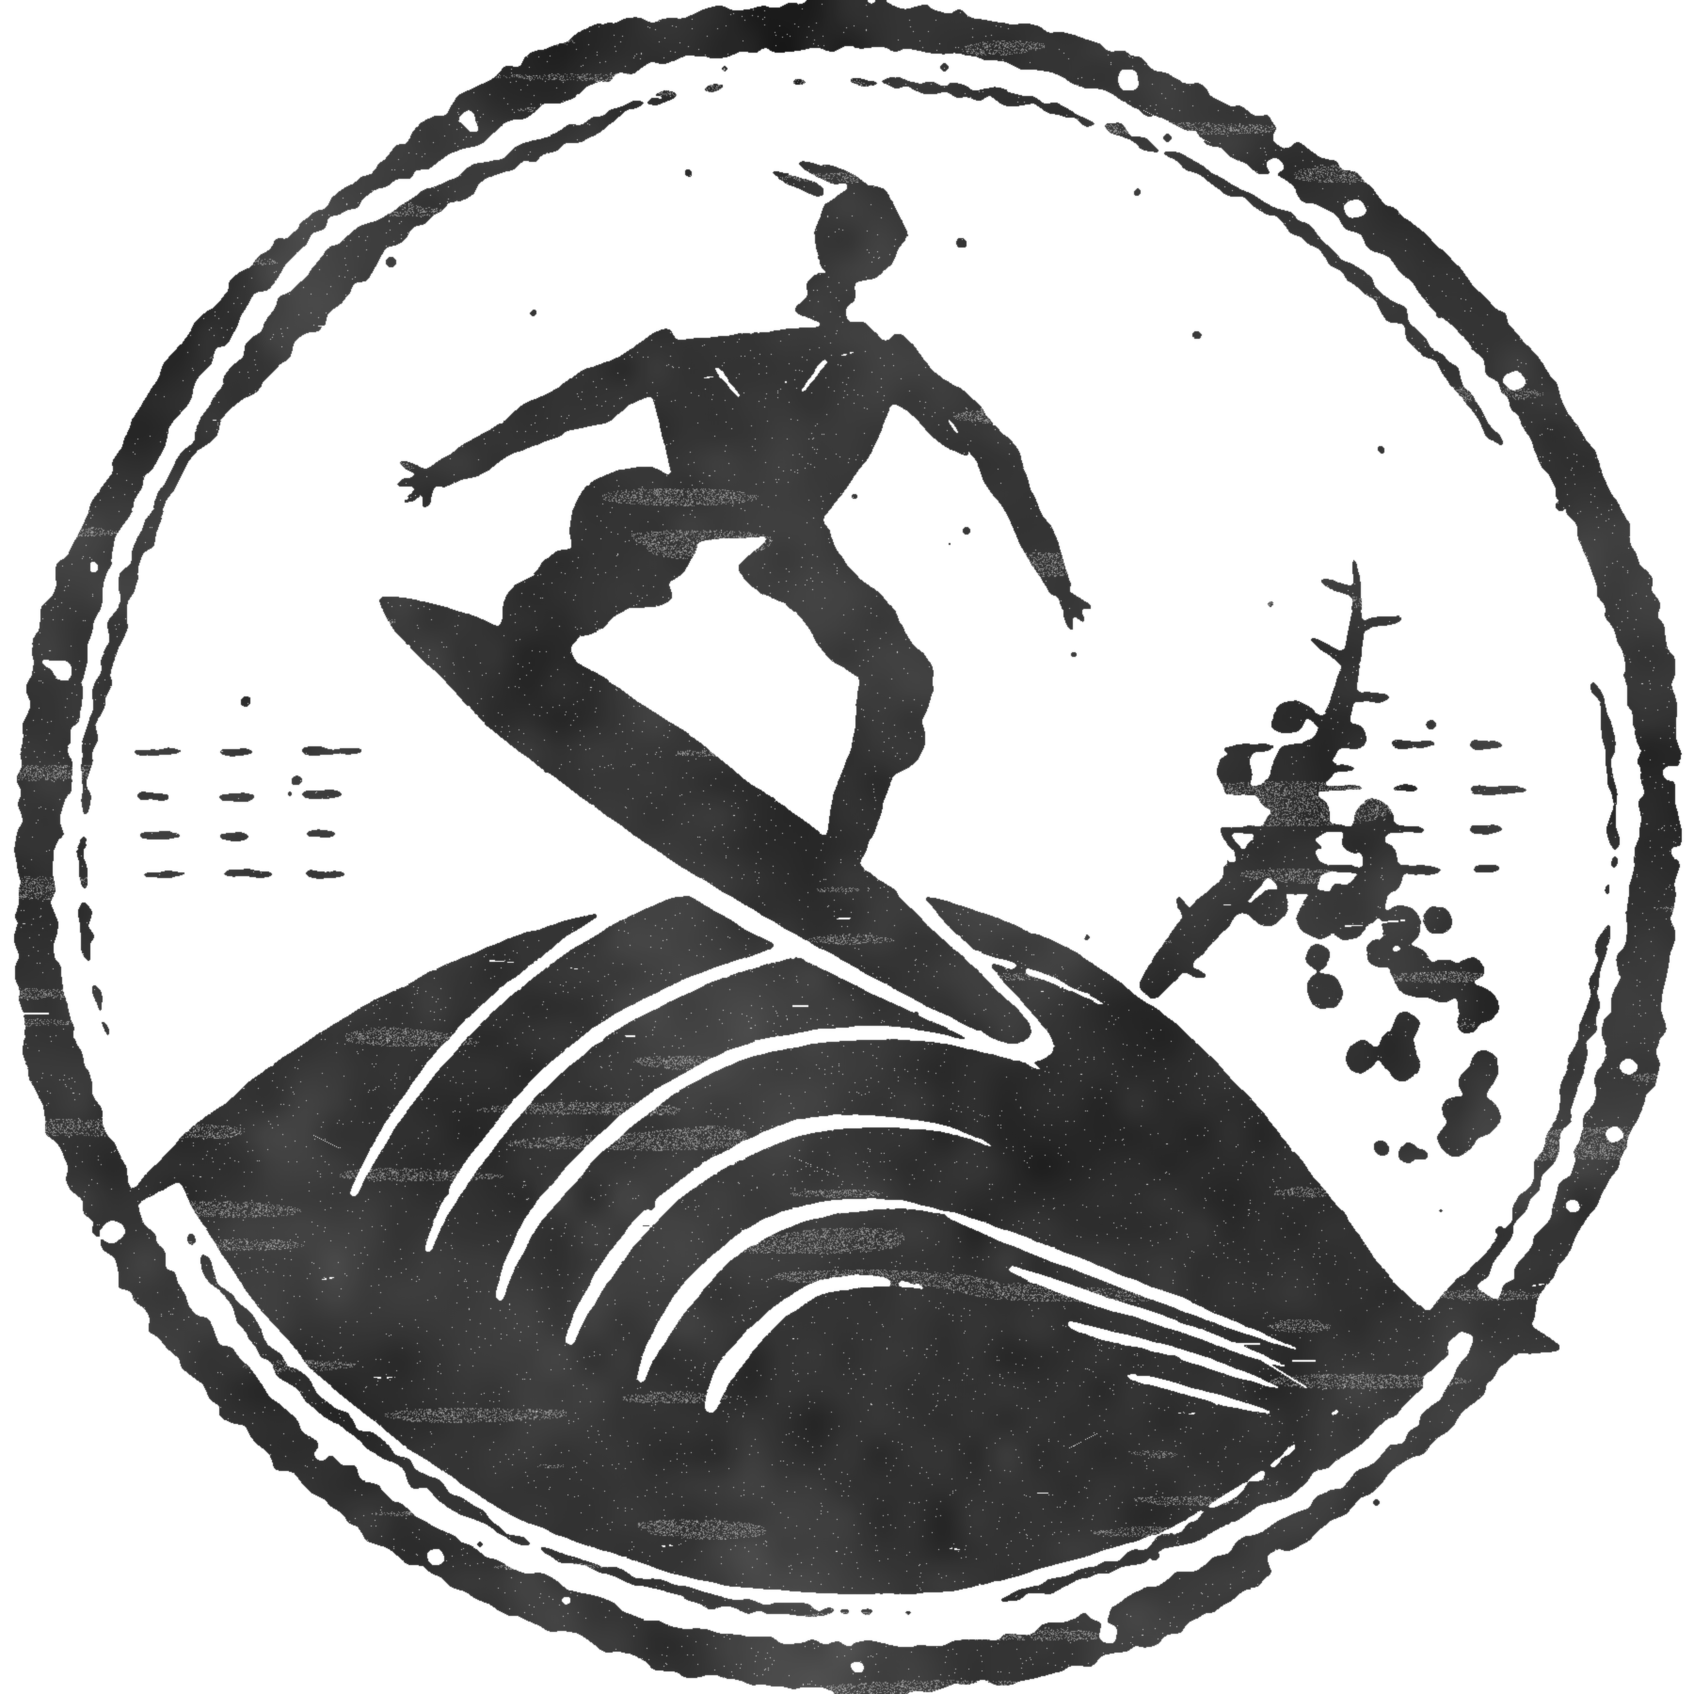
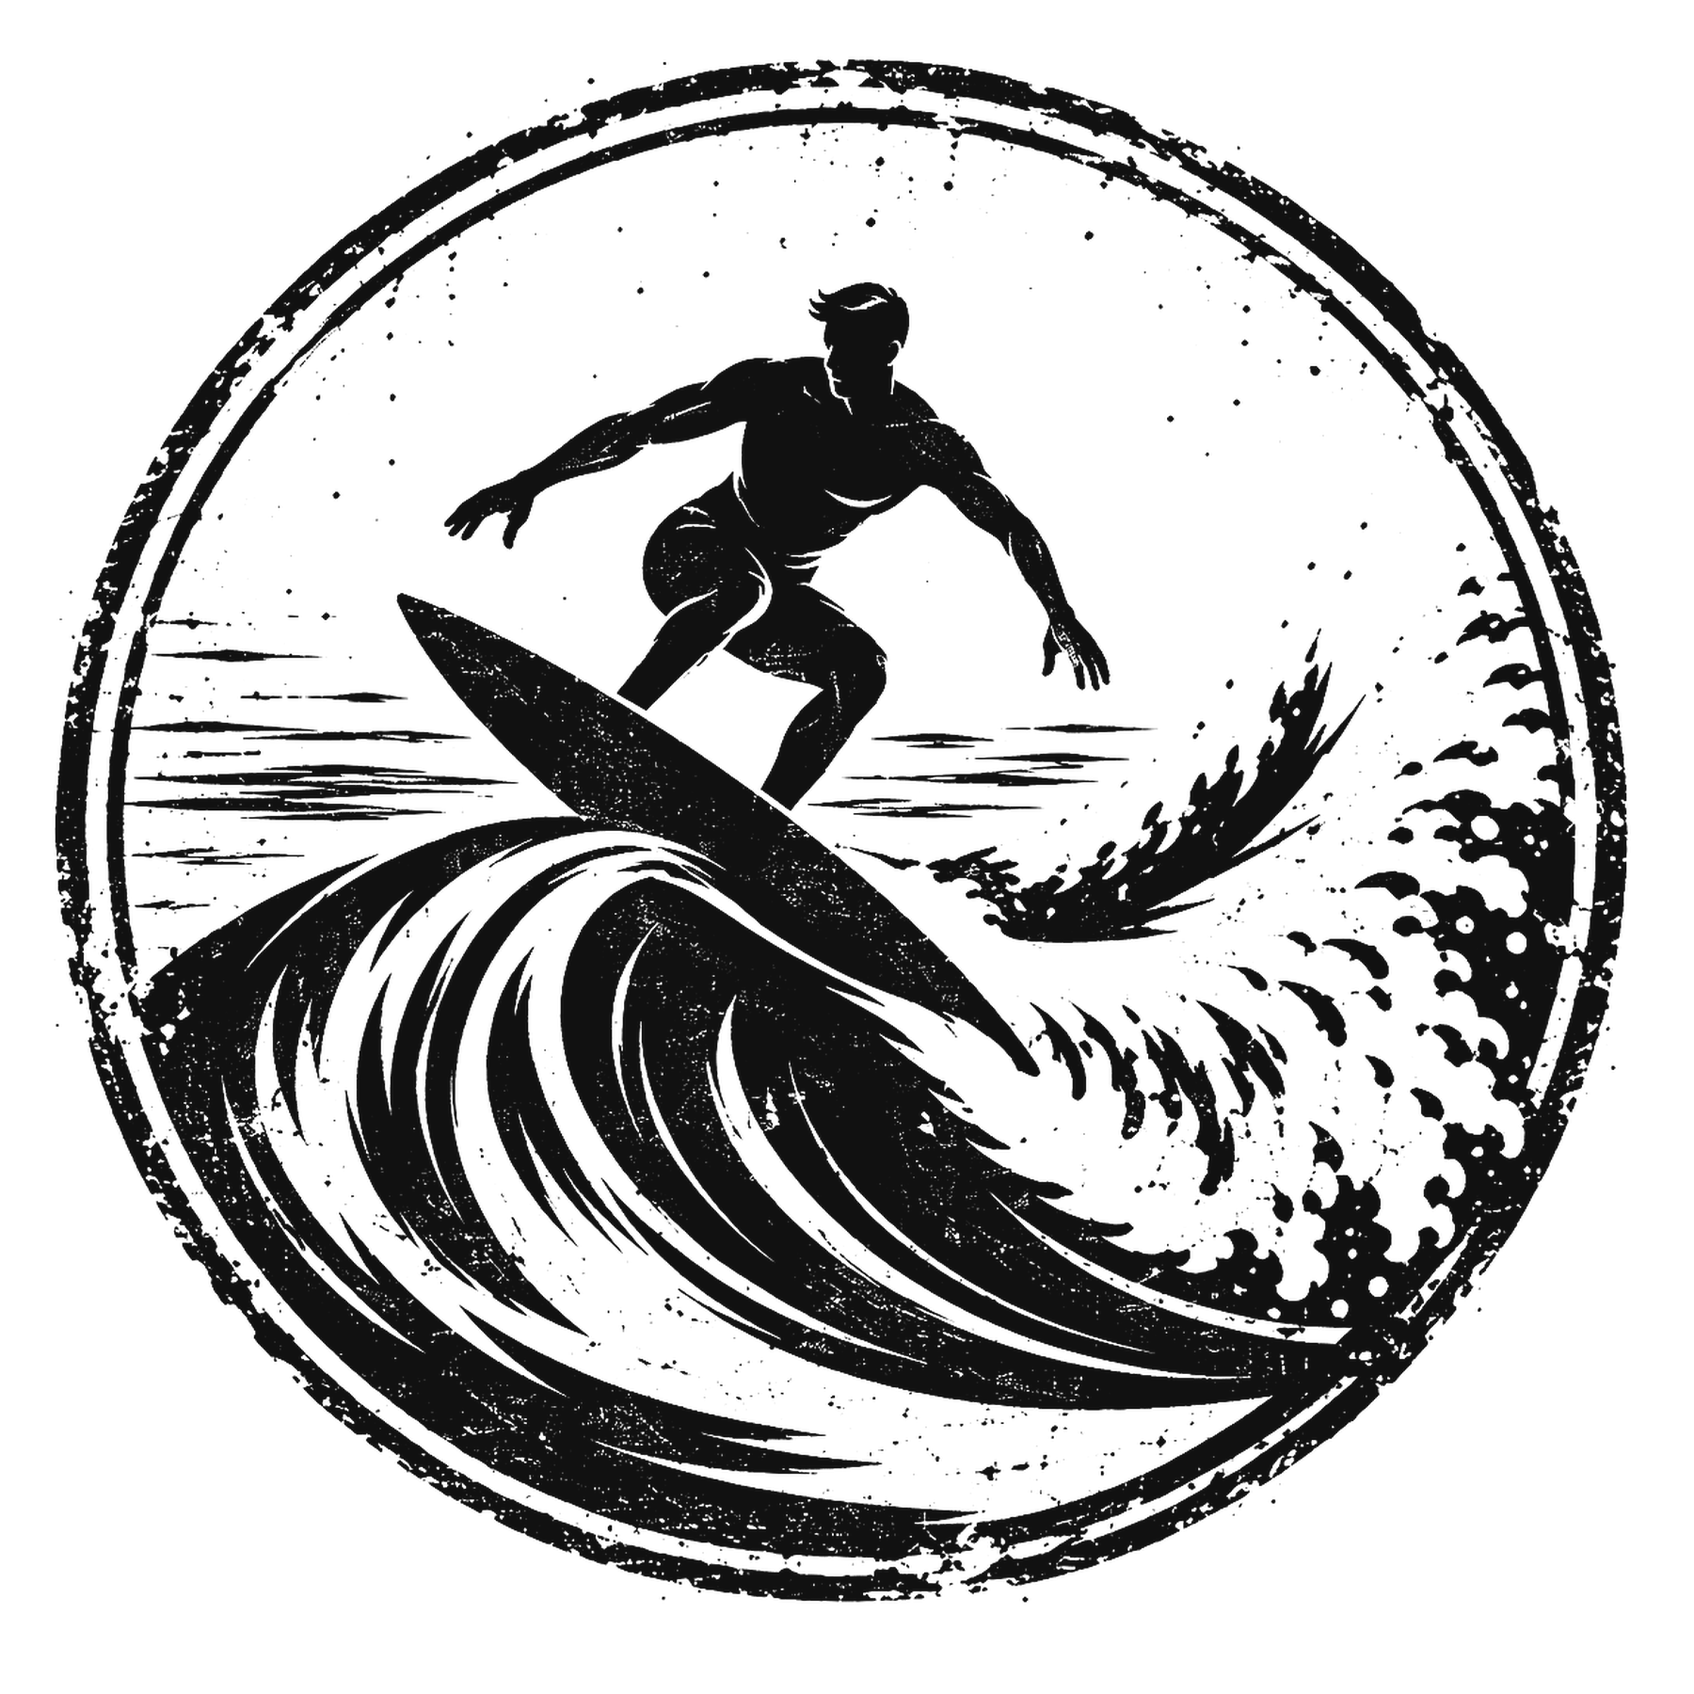
Sitio: surf del dibujo de Lucas y conferencias solo con entrada simbólica
- El emblema del surf (futuro capítulo) sale de diseño/referencias/surf.png
  pasado a la tinta de los grabados, y flota en el sitio.
- Ya no hay conferencia abierta y gratuita: todos los encuentros en vivo
  llevan entrada simbólica obligatoria.

Claude-Session: https://claude.ai/code/session_014ZXCqSPyLGg43e9ivReU3y

diff --git a/sitio/app/conferencias/page.tsx b/sitio/app/conferencias/page.tsx
@@ -8,32 +8,13 @@ import { conferencias, portadillas, precios } from "@/content/config";
 export const metadata: Metadata = { title: "Conferencias" };
 
 export default function Conferencias() {
-  const abiertas = conferencias.filter((c) => c.tipo === "abierta");
   const privadas = conferencias.filter((c) => c.tipo === "privada");
   return (
     <>
-      <Apertura titulo="Conferencias" bajada="Una abierta por año, gratis. Y privadas, con entrada simbólica." {...portadillas.conferencias} />
-      <section className="hondo border-t borde px-5 py-16 sm:py-20">
-        <div className="mx-auto max-w-3xl revelar">
-          <h2 className="titulo text-3xl mb-2">Abierta</h2>
-          <p className="texto-2 mb-8">Gratis. Solo hace falta inscribirse.</p>
-          {abiertas.map((c) => (
-            <article key={c.id} className="border-t border-b borde py-8">
-              <h3 className="text-2xl">{c.titulo}</h3>
-              <p className="texto-2 mt-1">
-                {c.fecha} · {c.lugar}
-              </p>
-              <p className="mt-4 prosa">{c.descripcion}</p>
-              <Link href={`/conferencias/${c.id}`} className="boton boton-lleno mt-6">
-                Inscribirme
-              </Link>
-            </article>
-          ))}
-        </div>
-      </section>
+      <Apertura titulo="Conferencias" bajada="En vivo, con entrada simbólica. El link para entrar aparece en tu espacio." {...portadillas.conferencias} />
       <section className="px-5 py-16 sm:py-20">
         <div className="mx-auto max-w-3xl revelar">
-          <h2 className="titulo text-3xl mb-2">Privadas</h2>
+          <h2 className="titulo text-3xl mb-2">Próximas</h2>
           <p className="texto-2 mb-8">
             Entrada simbólica de <Precio {...precios.conferenciaPrivada} />. Para comprarla necesitás una cuenta; el link
             para entrar aparece en tu espacio.

diff --git a/sitio/lib/acciones.ts b/sitio/lib/acciones.ts
@@ -11,7 +11,7 @@ import { leer, escribir } from "./db";
 import { producto, pagarSimulado, montoElegido } from "./payments";
 import { canjear } from "./codigos";
 import { ocupados } from "./sesiones";
-import { conferencias, modulos } from "@/content/config";
+import { modulos } from "@/content/config";
 
 export type Estado = { error?: string; ok?: string } | null;
 
@@ -38,21 +38,6 @@ export async function accionCrearCuenta(_: Estado, f: FormData): Promise<Estado>
 export async function accionSalir() {
   await cerrarSesion();
   redirect("/?sesion=cerrada");
-}
-
-export async function accionInscribir(_: Estado, f: FormData): Promise<Estado> {
-  const conferencia = txt(f, "conferencia");
-  const nombre = txt(f, "nombre");
-  const email = txt(f, "email").toLowerCase();
-  if (!conferencias.some((c) => c.id === conferencia && c.tipo === "abierta")) return { error: "Esa conferencia no existe." };
-  if (nombre.length < 2) return { error: "Escribí tu nombre." };
-  if (!mailValido(email)) return { error: "Revisá el mail." };
-  const lista = await leer<{ id: string; conferencia: string; nombre: string; email: string; fecha: string }[]>("inscripciones");
-  if (!lista.some((i) => i.conferencia === conferencia && i.email === email)) {
-    lista.push({ id: crypto.randomUUID(), conferencia, nombre, email, fecha: new Date().toISOString() });
-    await escribir("inscripciones", lista);
-  }
-  return { ok: `Listo, ${nombre}. Quedaste inscripto. Te vamos a escribir a ${email} con la fecha y el lugar.` };
 }
 
 export async function accionLista(_: Estado, f: FormData): Promise<Estado> {

diff --git a/sitio/app/conferencias/[id]/page.tsx b/sitio/app/conferencias/[id]/page.tsx
@@ -4,8 +4,6 @@ import type { Metadata } from "next";
 import Apertura from "@/components/Apertura";
 import Texto from "@/components/Marcador";
 import Precio from "@/components/Precio";
-import Formulario, { Campo } from "@/components/Formulario";
-import { accionInscribir } from "@/lib/acciones";
 import { usuarioActual } from "@/lib/auth";
 import { accesos } from "@/lib/access";
 import { conferencias, portadillas, precios } from "@/content/config";
@@ -23,25 +21,6 @@ export default async function Conferencia({ params }: P) {
   const c = conferencias.find((x) => x.id === id);
   if (!c) notFound();
   const u = await usuarioActual();
-
-  if (c.tipo === "abierta") {
-    return (
-      <>
-        <Apertura titulo={c.titulo} bajada={`${c.fecha} · ${c.lugar}`} folio={portadillas.conferencias.folio} />
-        <section className="hondo border-t borde px-5 py-16">
-          <div className="mx-auto max-w-xl revelar">
-            <p className="text-lg">{c.descripcion}</p>
-            <h2 className="titulo text-2xl mt-12 mb-6">Inscripción</h2>
-            <Formulario accion={accionInscribir} boton="Inscribirme" ocultarAlTerminar>
-              <input type="hidden" name="conferencia" value={c.id} />
-              <Campo nombre="nombre" etiqueta="Nombre" autoComplete="name" />
-              <Campo nombre="email" etiqueta="Mail" tipo="email" autoComplete="email" />
-            </Formulario>
-          </div>
-        </section>
-      </>
-    );
-  }
 
   const tiene = u ? (await accesos(u.id)).conferencias.includes(c.id) : false;
   return (

diff --git a/sitio/tests/publico.spec.ts b/sitio/tests/publico.spec.ts
@@ -5,7 +5,7 @@ const paginas = [
   "/",
   "/libros",
   "/conferencias",
-  "/conferencias/abierta-2026",
+  "/conferencias/privada-1",
   "/masterclass",
   "/en-vivo",
   "/masterclass/grabada",
@@ -48,12 +48,11 @@ test("los tres libros figuran como Próximamente y con marcador de texto", async
   await expect(page.locator("[data-marcador]").first()).toContainText("a definir)");
 });
 
-test("inscripción a la conferencia abierta", async ({ page }) => {
+test("las conferencias en vivo son todas con entrada simbólica", async ({ page }) => {
+  await page.goto("/conferencias");
+  await expect(page.locator("main")).not.toContainText(/gratis|abierta/i);
   await page.goto("/conferencias/abierta-2026");
-  await page.getByLabel("Nombre").fill("Sofía");
-  await page.getByLabel("Mail").fill("sofia@prueba.com");
-  await page.getByRole("button", { name: "Inscribirme" }).click();
-  await expect(page.getByTestId("mensaje-ok")).toContainText("Quedaste inscripto");
+  await expect(page.getByRole("heading", { name: "Esta página no existe" })).toBeVisible();
 });
 
 test("sumarse a la lista por WhatsApp o por mail", async ({ page }) => {

diff --git a/sitio/content/config.ts b/sitio/content/config.ts
@@ -107,7 +107,7 @@ export const libros: Libro[] = [
 
 export type Conferencia = {
   id: string;
-  tipo: "abierta" | "privada";
+  tipo: "privada"; // todas en vivo, con entrada simbólica obligatoria
   titulo: string;
   fecha: string; // texto libre: "a definir" o "Sábado 14 de marzo, 19 h"
   lugar: string;
@@ -118,17 +118,9 @@ export type Conferencia = {
 
 export const conferencias: Conferencia[] = [
   {
-    id: "abierta-2026",
-    tipo: "abierta",
-    titulo: "Conferencia abierta anual",
-    fecha: "Fecha a definir",
-    lugar: "Lugar a definir",
-    descripcion: "Una vez por año, abierta y gratuita. Solo hace falta inscribirse.",
-  },
-  {
     id: "privada-1",
     tipo: "privada",
-    titulo: "Conferencia privada I",
+    titulo: "Conferencia I",
     fecha: "Fecha a definir",
     lugar: "En línea",
     descripcion: MARCADOR,
@@ -137,7 +129,7 @@ export const conferencias: Conferencia[] = [
   {
     id: "privada-2",
     tipo: "privada",
-    titulo: "Conferencia privada II",
+    titulo: "Conferencia II",
     fecha: "Fecha a definir",
     lugar: "En línea",
     descripcion: MARCADOR,

diff --git a/sitio/app/page.tsx b/sitio/app/page.tsx
@@ -187,7 +187,7 @@ export default async function Inicio({ searchParams }: { searchParams: Promise<{
                   {c.titulo}
                 </Link>
                 <span className="texto-2 text-sm">
-                  {c.tipo === "abierta" ? "Gratis, con inscripción" : "Entrada simbólica"} · {c.fecha}
+                  Entrada simbólica · {c.fecha}
                 </span>
               </li>
             ))}

diff --git a/herramientas/emblemas_nuevos.py b/herramientas/emblemas_nuevos.py
@@ -1,7 +1,7 @@
 """
 Emblemas nuevos tallados con el mismo motor de grabado de la trilogía:
   - el clavo (flotan tres en el sitio: símbolo de Jesús) y los tres clavos juntos;
-  - el surf (tabla frente a la ola que se enrosca): para un futuro capítulo.
+  (el surf del futuro capítulo sale del dibujo de Lucas: herramientas/surf_desde_imagen.py).
 Salen en alta resolución a diseño/grabados/ y en chico, tinta crema, al sitio.
 Uso:  python3 herramientas/emblemas_nuevos.py
 """
@@ -59,107 +59,6 @@ def E_TRES_CLAVOS(ink, s):
         clavo(ink, T, s, base=(dx, -230 + abs(dx) * 0.25), ang=-ang, largo=0.9)  # las cabezas juntas, las puntas abiertas
 
 
-def E_SURF(ink, s):
-    """Sobre el dibujo de Lucas: surfista musculoso en una tabla corta, la ola en medialunas, espuma que se enrosca; doble anillo."""
-    T = TT(s)
-    cx, cy = T(0, 0)
-    rnd = ink.r
-    R = 330
-    # doble anillo gastado
-    ink.circle(cx, cy, (R + 12) * s)
-    ink.circle(cx, cy, (R - 6) * s, layer='white')
-    ink.circle(cx, cy, (R - 16) * s, layer='black2')
-    ink.circle(cx, cy, (R - 21) * s, layer='white')
-    r_in = R - 26
-    for _ in range(26):                                   # el anillo se come en algunos puntos
-        a = rnd.uniform(0, 2 * math.pi); rr = R + rnd.uniform(-4, 10)
-        ink.circle(*T(rr * math.cos(a), rr * math.sin(a)), rnd.uniform(2, 5) * s, layer='white')
-    def dentro(x, y, m=0):
-        return math.hypot(x, y) < r_in - m
-    # el horizonte a los dos lados, en rayas
-    for y in (-40, -22, -6, 10):
-        for x0 in range(-290, 300, 34):
-            x1 = x0 + rnd.uniform(14, 28)
-            if dentro(x0, y, 8) and dentro(x1, y, 8) and not (-200 < x0 < 120):
-                ink.stroke([T(x0, y), T(x1, y)], rnd.uniform(3, 6) * s, 2 * s)
-    # la ola: masa que barre desde la izquierda, sube bajo la tabla y se va hacia abajo a la derecha
-    borde = (ink.bez(T(-300, 150), T(-240, 70), T(-120, 10), T(0, 16))
-             + ink.bez(T(0, 16), T(90, 22), T(150, 80), T(200, 150))[1:]
-             + ink.bez(T(200, 150), T(230, 196), T(270, 214), T(292, 206))[1:])
-    a_der = math.atan2(206, 292); a_izq = math.atan2(150, -300)
-    arco = [T(r_in * math.cos(a_der + (a_izq - a_der) * i / 48), r_in * math.sin(a_der + (a_izq - a_der) * i / 48)) for i in range(49)]
-    ink.poly(borde + arco, 1.6)
-    # el tubo: medialunas blancas anidadas (franjas de la ola)
-    ox, oy = 10, 250
-    for k, rad in enumerate((70, 100, 132, 166, 200, 236)):
-        a0, a1 = math.radians(196 + k * 2), math.radians(292 + k * 3)
-        pts = [(ox + rad * math.cos(a0 + (a1 - a0) * i / 40), oy + rad * 1.05 * math.sin(a0 + (a1 - a0) * i / 40)) for i in range(41)]
-        pts = [p for p in pts if dentro(*p, 6)]
-        if len(pts) > 3:
-            ink.stroke([T(*p) for p in pts], (11 - k * 0.6) * s, 3 * s, layer='white', amp=0.4)
-    for k in range(4):                                    # franjas de la cola de la ola, hacia la derecha
-        pts = ink.bez(T(40 + k * 24, 150 + k * 22), T(120 + k * 20, 180 + k * 18), T(190 + k * 14, 214 + k * 10), T(270 - k * 6, 230 + k * 8))
-        ink.stroke([p for p in pts if dentro((p[0] - cx) / s, (p[1] - cy) / s, 8)], (8 - k) * s, 2 * s, layer='white', amp=0.3)
-    # la espuma: un penacho que sale del labio y se enrosca hacia arriba, y una cascada de gotas a la derecha
-    penacho = ink.bez(T(120, 60), T(170, 10), T(220, -60), T(206, -120))
-    ink.stroke(penacho, 22 * s, 4 * s)
-    for i in range(3, len(penacho) - 2, 3):               # plumas del penacho
-        (x0, y0), (x1, y1) = penacho[i - 1], penacho[i + 1]
-        dx, dy = x1 - x0, y1 - y0; l = math.hypot(dx, dy) or 1
-        nx, ny = -dy / l, dx / l
-        lado = 1 if (i // 3) % 2 else -1
-        largo = rnd.uniform(14, 26) * s
-        ink.stroke([penacho[i], (penacho[i][0] + nx * largo * lado + dx / l * 8 * s, penacho[i][1] + ny * largo * lado + dy / l * 8 * s)], 6 * s, 1.5 * s)
-    for _ in range(70):                                   # gotas que caen por la derecha
-        t = rnd.random()
-        x = 170 + 120 * t + rnd.uniform(-30, 30); y = -60 + 250 * t + rnd.uniform(-30, 30)
-        if dentro(x, y, 12):
-            ink.circle(*T(x, y), rnd.uniform(3, 10) * (1.2 - t * 0.5) * s)
-    # la tabla: corta, punta arriba a la izquierda, con borde blanco
-    p0, p1 = (-190, -104), (70, 74)
-    ang = math.atan2(p1[1] - p0[1], p1[0] - p0[0]); L = math.hypot(p1[0] - p0[0], p1[1] - p0[1])
-    def B(u, v):
-        return T(p0[0] + u * math.cos(ang) - v * math.sin(ang), p0[1] + u * math.sin(ang) + v * math.cos(ang))
-    def tabla(e):
-        return (ink.bez(B(-e, 0), B(40, -30 - e), B(L * 0.62, -30 - e), B(L + e, -4))
-                + ink.bez(B(L + e, -4), B(L + 6 + e, 0), B(L + 6 + e, 4), B(L + e, 8))[1:]
-                + ink.bez(B(L + e, 8), B(L * 0.62, 30 + e), B(40, 30 + e), B(-e, 0))[1:])
-    ink.poly(tabla(12), 1.0, 'white')
-    ink.poly(tabla(0), 1.0, 'black2')
-    # el surfista: musculoso, agachado, inclinado hacia la ola, un brazo atrás y el otro hacia adelante
-    def miembro(pts, anchos):
-        for (p, q), (w0, w1) in zip(zip(pts, pts[1:]), anchos):
-            ink.stroke([T(*p), T(*q)], w0 * s, w1 * s, layer='black2', taper=False, amp=0.5)
-        for (p, (w0, w1)) in zip(pts[1:-1], anchos[1:]):
-            ink.circle(*T(*p), w0 * 0.5 * s, layer='black2', amp=0.6)
-    ink.poly([T(-72, -206), T(8, -214), T(26, -196), T(10, -160), T(-12, -128), T(-66, -124), T(-72, -160), T(-80, -188)], 1.0, 'black2')  # torso
-    ink.circle(*T(-86, -130), 26 * s, layer='black2')                                                  # glúteo hacia atrás
-    ink.stroke([T(-10, -214), T(-4, -232)], 20 * s, 18 * s, layer='black2', taper=False)                # cuello
-    perfil = [(0, -20), (12, -17), (18, -6), (22, 1), (17, 6), (15, 12), (8, 18), (-3, 20), (-14, 14), (-17, 0), (-14, -12)]
-    ink.poly([T(4 + x, -250 + y) for x, y in perfil], 0.8, 'black2')                                    # cabeza de perfil
-    for dx, dy, l in ((-10, -266, 22), (-2, -270, 20), (6, -268, 16)):                                  # el mechón de pelo
-        ink.stroke([T(dx, dy), T(dx - l, dy - 10)], 7 * s, 2 * s, layer='black2')
-    miembro([(-66, -200), (-120, -176), (-168, -150)], [(24, 18), (17, 11)])                            # brazo de atrás
-    for ddx, ddy in ((-16, -8), (-18, 2), (-14, 10), (-6, 14)):                                         # mano abierta
-        ink.stroke([T(-168, -150), T(-168 + ddx, -150 + ddy)], 5 * s, 2 * s, layer='black2')
-    miembro([(12, -200), (60, -160), (88, -104)], [(24, 18), (17, 11)])                                 # brazo de adelante, hacia la ola
-    for ddx, ddy in ((4, 18), (10, 14), (14, 8)):
-        ink.stroke([T(88, -104), T(88 + ddx, -104 + ddy)], 5 * s, 2 * s, layer='black2')
-    miembro([(-80, -120), (-126, -96), (-118, -54)], [(38, 30), (28, 16)])                              # pierna de atrás (arriba en la tabla)
-    miembro([(-30, -126), (22, -70), (-4, 12)], [(36, 28), (27, 16)])                                   # pierna de adelante
-    for (x, y) in ((-122, -92), (18, -44)):
-        ink.circle(*T(x, y), 14 * s, layer='black2', amp=0.6)                                           # pantorrillas
-    for (p0_, p1_, w) in [((-54, -196), (-38, -176), 3), ((-6, -200), (-20, -182), 3), ((-100, -170), (-128, -164), 2.5), ((40, -176), (56, -150), 2.5)]:
-        ink.stroke([T(*p0_), T(*p1_)], w * s, 1 * s, layer='white', amp=0.2)                            # cortes que marcan el músculo
-    for (x, y, a) in ((-118, -54, 0.6), (-4, 12, 0.6)):                                                  # pies sobre la tabla
-        pie = [(-22, -6), (24, -8), (26, 6), (-20, 8)]
-        ink.poly([T(x + px * math.cos(a) - py * math.sin(a), y + px * math.sin(a) + py * math.cos(a)) for px, py in pie], 0.5, 'black2')
-    for _ in range(60):                                   # motas de tinta, como en una estampa gastada
-        x, y = rnd.uniform(-300, 300), rnd.uniform(-300, 300)
-        if dentro(x, y, 10):
-            ink.circle(*T(x, y), rnd.uniform(1.2, 2.6) * s)
-
-
 def exportar(fn, nombre_grabado, nombre_sitio, seed, fino=False):
     ink = Ink(seed)
     ink.framed = False
@@ -174,4 +73,3 @@ def exportar(fn, nombre_grabado, nombre_sitio, seed, fino=False):
 if __name__ == '__main__':
     exportar(E_CLAVO, 'Símbolo - El clavo.png', 'clavo.webp', 33)
     exportar(E_TRES_CLAVOS, 'Símbolo - Los tres clavos.png', 'tres-clavos.webp', 34)
-    exportar(E_SURF, 'Futuro capítulo - Surf.png', 'surf.webp', 35, fino=True)
